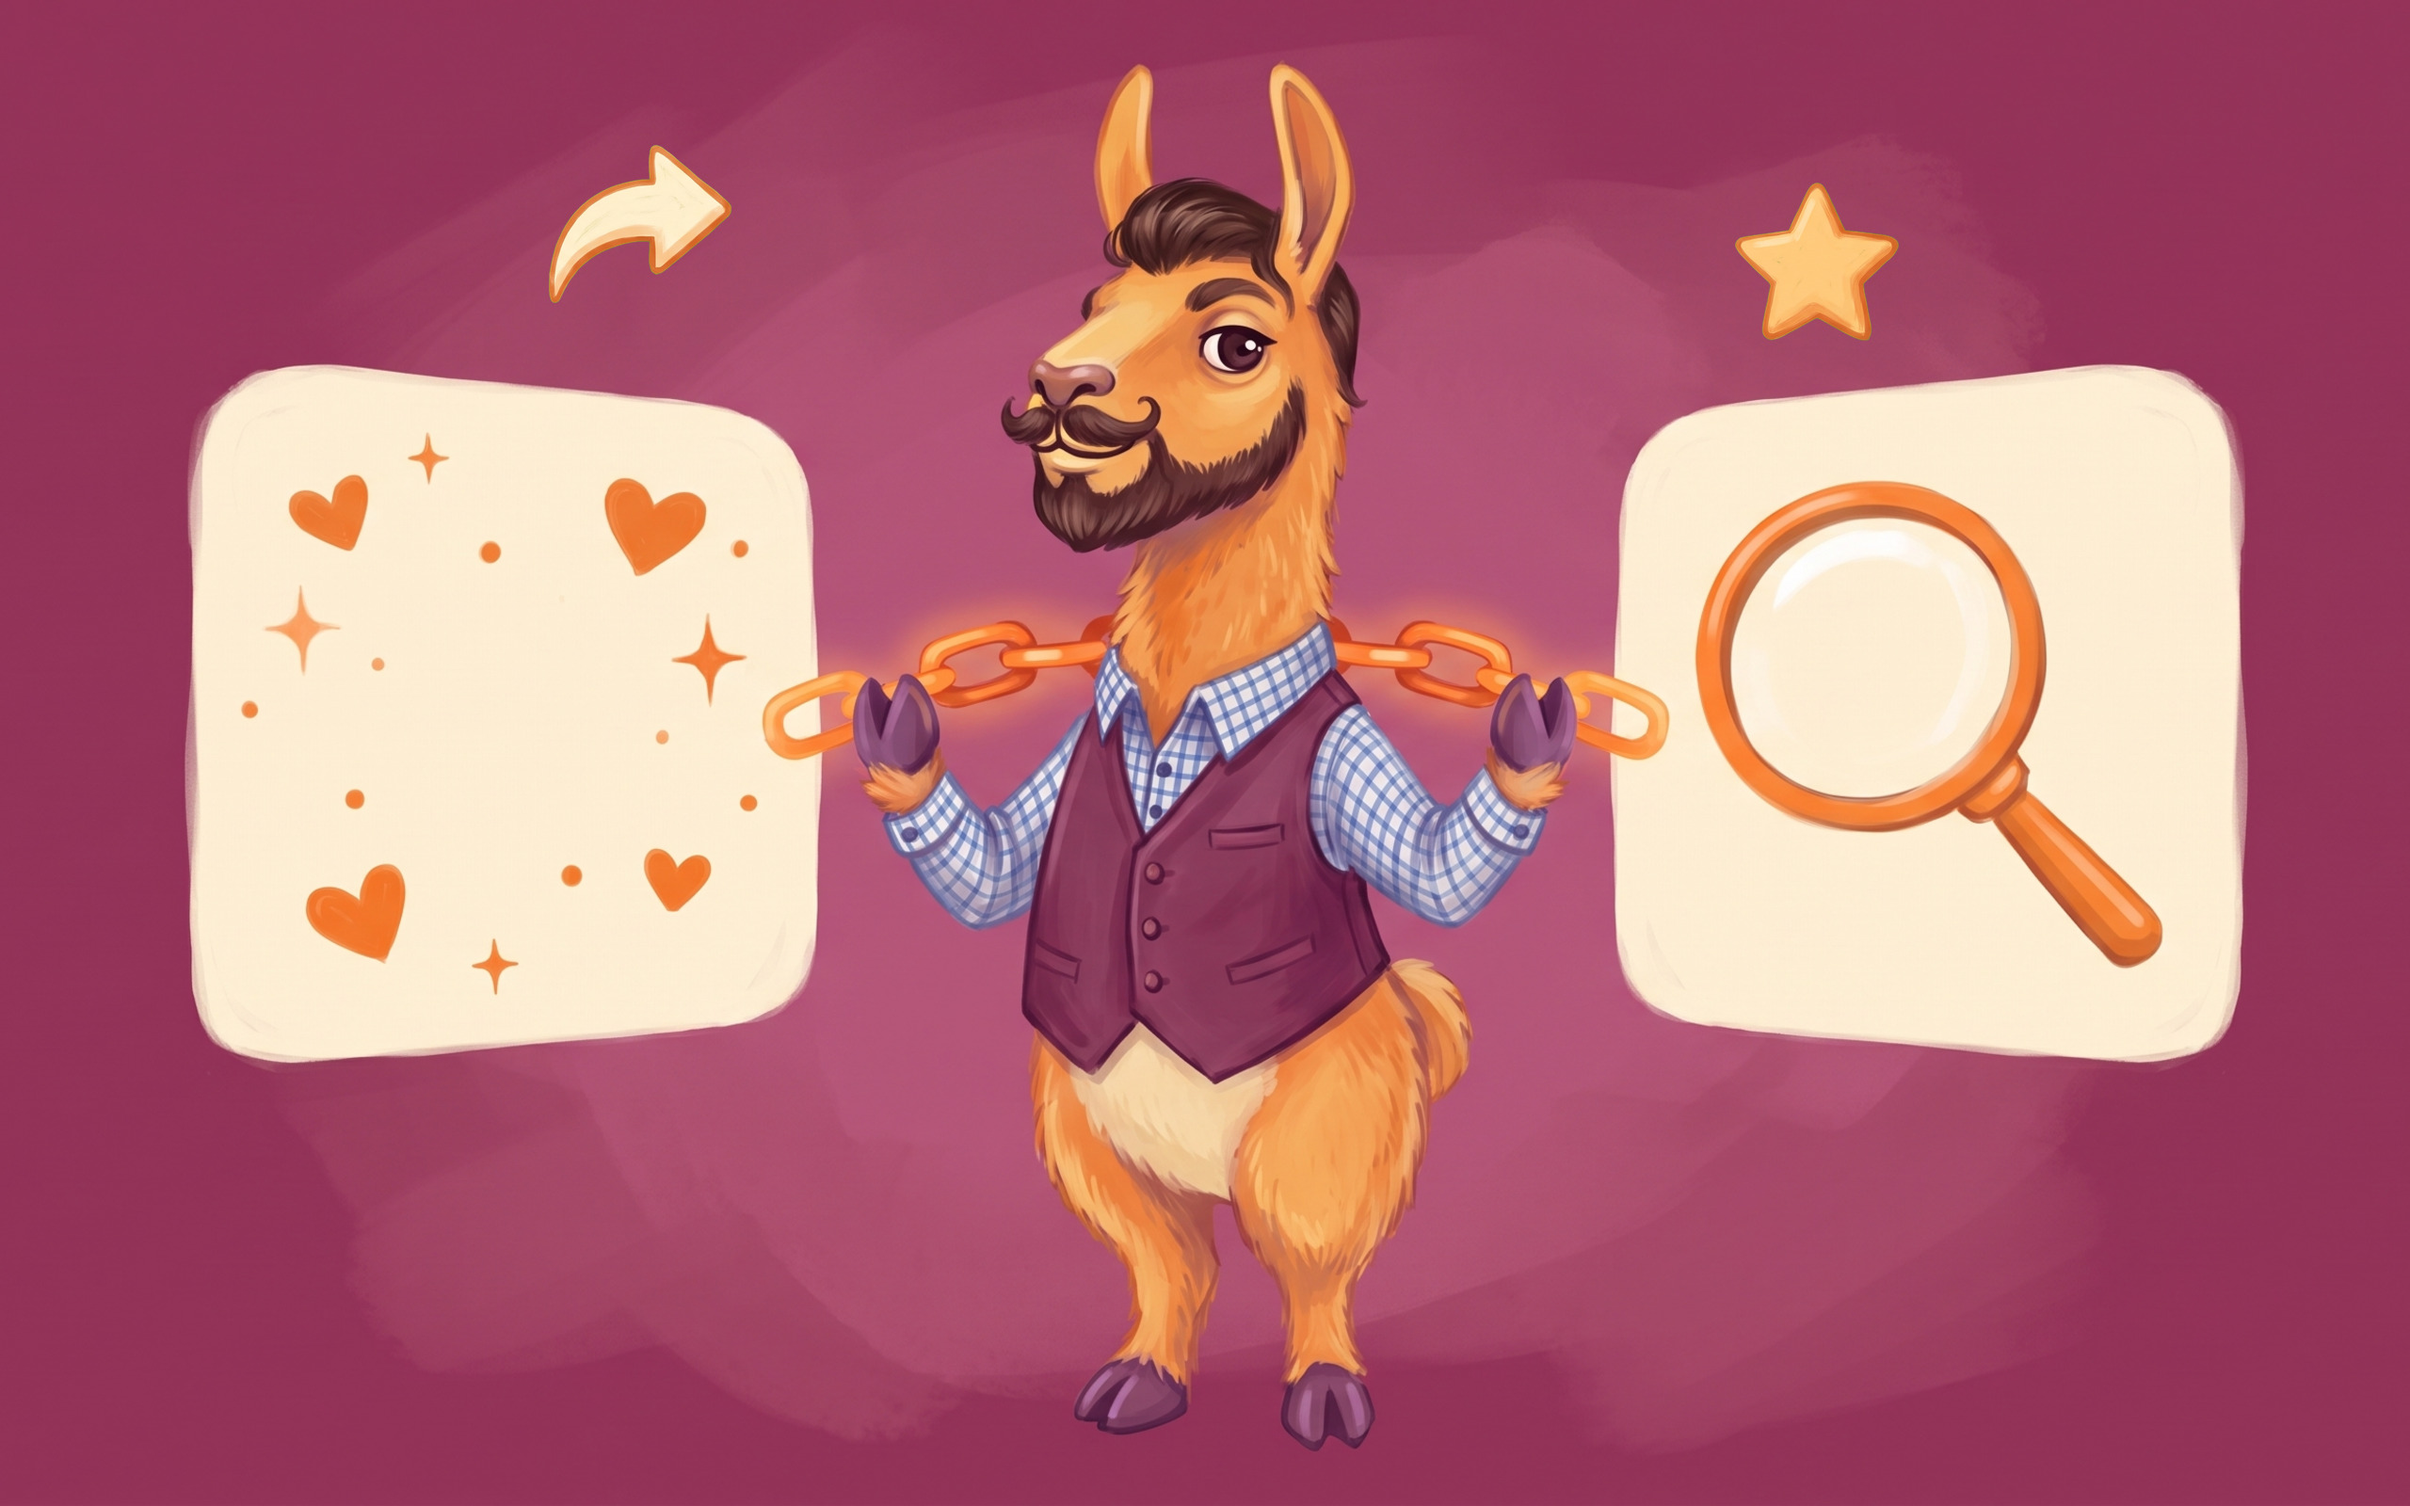
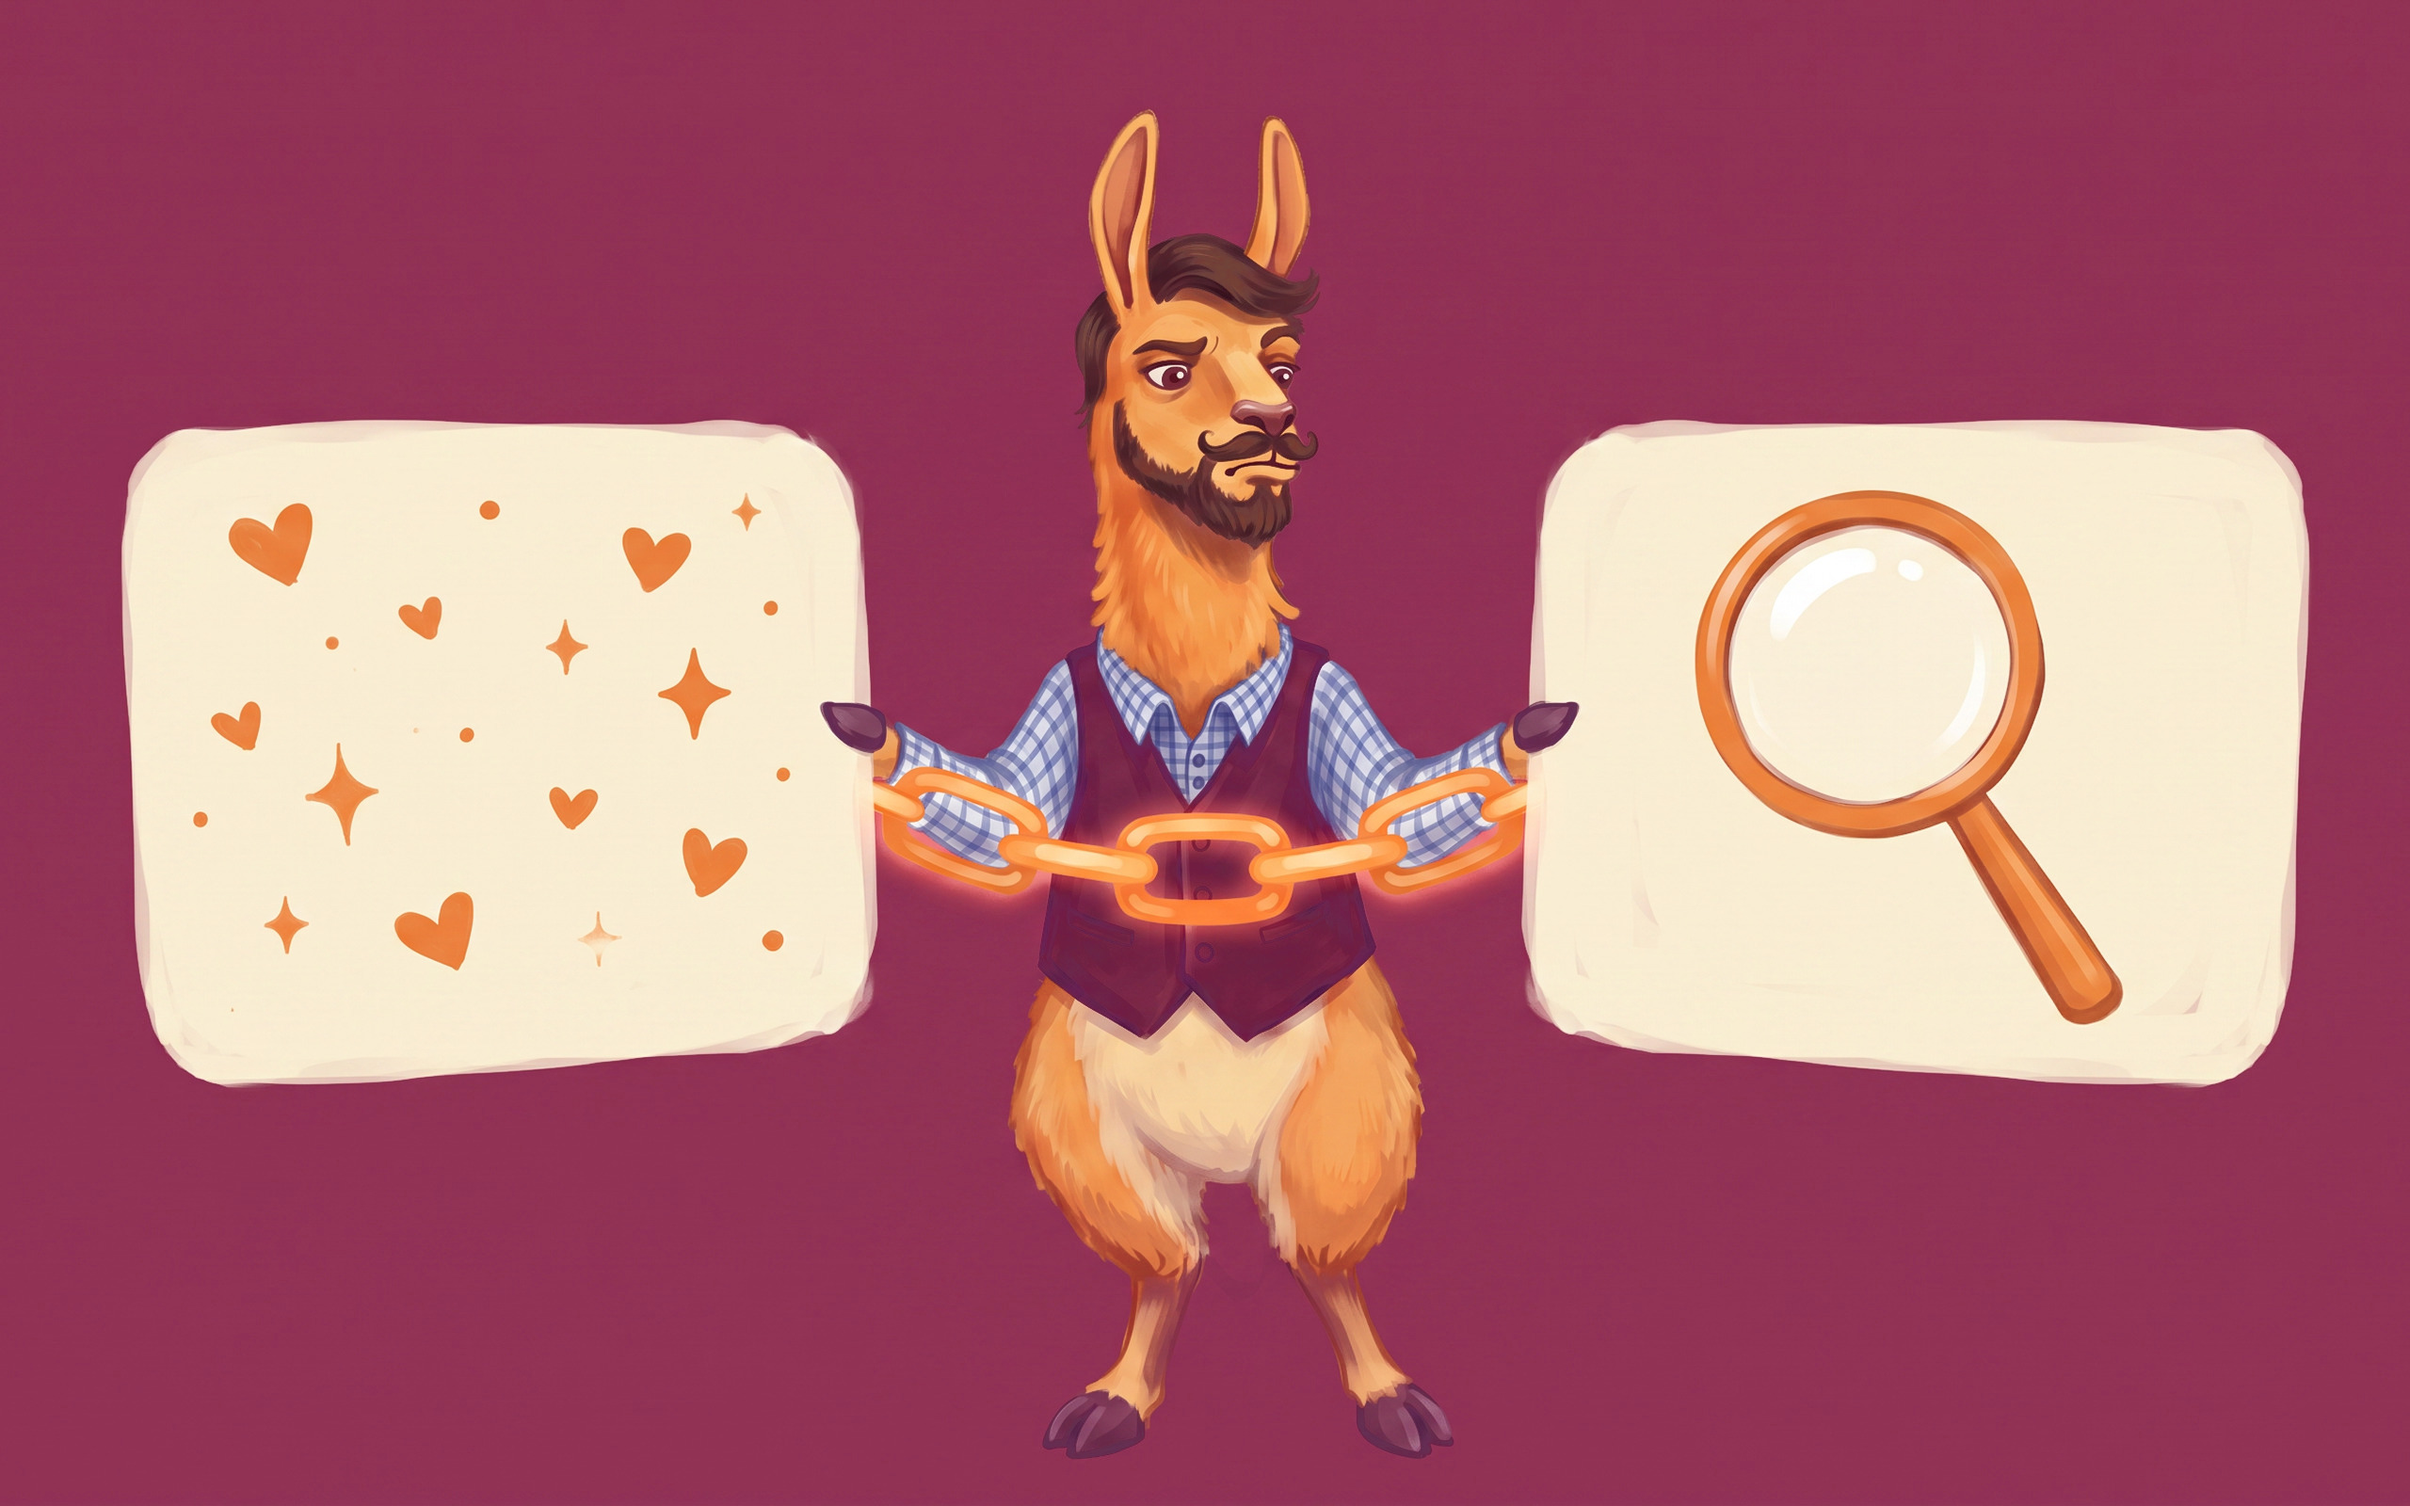
fix(blog): redraw the two defective bespoke covers
t-235 was drawn with six limbs — a quadruped standing on all fours plus a
shirt-sleeved arm reaching for the switch. t-227's llama was off-model against
its siblings: a short bulbous muzzle and a big lash-heavy eye where t-233 and
t-237 have a slender muzzle and a browed brown eye.

Both trace to the same root. All four bespoke seo pieces shared an identical
preamble and reference set, so the SCENE block was the only variable, and it
was carrying weight it could not hold: the face was specified in words against
a generic llama crop plus a photoreal author photo, and nothing anywhere
constrained stance or limb count. The two pieces that came out right did so by
luck of their phrasing ("holds up", "both front hooves pressed").

Fixed by applying the library's own lesson — attributes arrive as pixels, not
words. t-233 is now the character reference, carrying the face, the beard, the
waistcoat and the painted style directly; the human photo is dropped because
its interpretation varies per generation. Every prompt now also carries an
explicit anatomy clause fixing four limbs and an upright stance. Both pieces
came back correct on the first attempt, 4 credits, no retries.

t-233's own ground is #A54B6E, off brand plum, so both redraws inherited the
drift; corrected in post with a distance-feathered masked shift to #913155
(ground moved ~27 levels, subject mean change 0.1). Motifs are unchanged —
only the drawing was wrong.
[…]

diff --git a/lib/payload/relink-cover-art.ts b/lib/payload/relink-cover-art.ts
@@ -37,6 +37,26 @@ const ALTS_EN_PATH = 'content/media/alts.en.json'
 const STAGING = '.cover-art-staging'
 const APPLY = process.argv.includes('--apply')
 
+// `--only t-227,t-235` restricts the run to the named pieces. Without it every
+// in-use piece is re-uploaded, which is right for the first publish and wrong
+// for a revision: redrawing one piece would otherwise mint a fresh media row
+// for all sixteen and repoint every post at art that did not change.
+const onlyArg = process.argv.find((a) => a.startsWith('--only'))
+const ONLY = onlyArg
+  ? new Set(
+      (onlyArg.includes('=')
+        ? onlyArg.slice(onlyArg.indexOf('=') + 1)
+        : (process.argv[process.argv.indexOf(onlyArg) + 1] ?? '')
+      )
+        .split(',')
+        .map((k) => k.trim())
+        .filter(Boolean)
+    )
+  : null
+if (ONLY?.size === 0) {
+  throw new Error('--only needs a comma-separated list of library piece keys')
+}
+
 if (!process.argv.includes('--prod')) {
   throw new Error(
     'payload:relink:cover-art requires --prod: the library serves posts that only ' +
@@ -144,9 +164,28 @@ for (const [, a] of assignments) {
 // there for a future post — but uploading it would create a media row that
 // nothing references. Skip it; it publishes when something first uses it.
 const toUpload = Object.entries(map.library).filter(
-  ([key]) => (uses.get(key) ?? 0) > 0
+  ([key]) => (uses.get(key) ?? 0) > 0 && (ONLY?.has(key) ?? true)
 )
 const idle = Object.keys(map.library).filter((key) => !uses.get(key))
+
+if (ONLY) {
+  const unknown = [...ONLY].filter((key) => !map.library[key])
+  if (unknown.length > 0) {
+    throw new Error(
+      `--only names pieces not in the library: ${unknown.join(', ')}`
+    )
+  }
+  const noPosts = [...ONLY].filter((key) => !uses.get(key))
+  if (noPosts.length > 0) {
+    throw new Error(
+      `--only names pieces no post uses: ${noPosts.join(', ')} — uploading them ` +
+        'would create media rows nothing references'
+    )
+  }
+  console.log(
+    `--only ${[...ONLY].join(', ')} — every other piece is left alone.\n`
+  )
+}
 
 console.log(
   `${published.docs.length} published posts scanned, all 22 assignments resolved.\n`
@@ -225,6 +264,10 @@ for (const [key, piece] of toUpload) {
 console.log('')
 let moved = 0
 for (const [, a] of assignments) {
+  // A restricted run leaves every other post on the cover it already carries.
+  if (ONLY && !ONLY.has(a.piece)) {
+    continue
+  }
   const post = bySlug.get(a.slug)
   const want = newIds.get(a.piece)
   // Both were proven above — every assigned slug resolved, every assigned piece

diff --git a/content/media/cover-library-brief.md b/content/media/cover-library-brief.md
@@ -224,6 +224,52 @@ because loosening it is exactly what would let an icon land on a pale part of th
 - **Composition scale cannot be prompted.** Explicit "leave 15% empty above the ear tips"
   instructions were ignored twice. It is free to fix in post and pointless to pay for.
 
+### Revising a piece — the character and anatomy rules (added 2026-07-31)
+
+`t-227` and `t-235` shipped defective and were redrawn. Both failures trace to the same
+root: the SCENE block was the only thing that varied between the four bespoke `seo` pieces,
+and it was carrying weight it could not hold.
+
+- **A recurring character arrives as pixels too.** The face was specified only in words
+  ("neat dark brown beard … long muzzle") against a *generic* llama crop plus a photoreal
+  photo of the author. Two of four pieces drifted off-model — `t-227` came back with a
+  short bulbous muzzle and a big lash-heavy eye instead of the slender muzzle and browed
+  brown eye of its siblings. **Fix: pass an already-correct piece as the character
+  reference** (`t-233` was used) and drop the human photo, whose interpretation varies per
+  generation. Add "copy ONLY the character — not its props or composition", or the
+  reference's magnifying glass follows the character into the new scene.
+- **Limb count must be stated explicitly.** Nothing in the original prompts constrained
+  stance. `t-235`'s "reaches up with one hoof" left the model free to keep a quadruped on
+  all fours *and* grow an arm for the switch — six limbs. The pieces that came out right
+  did so by luck of their phrasing ("holds up", "both front hooves pressed"). Every prompt
+  now carries:
+
+  > ANATOMY, STRICTLY: exactly four limbs and no more — two hind legs and two front legs.
+  > It stands UPRIGHT ON ITS TWO HIND LEGS like a person; its two front legs are its arms.
+  > Do NOT draw a fifth or sixth limb. Do NOT draw it standing on four legs while also
+  > reaching up with an arm.
+
+- **A reference carries its ground drift too.** `t-233`'s own ground is `#A54B6E`, well off
+  brand plum, so both redraws inherited it. The masked shift in post (below) corrects it;
+  measure the corners rather than trusting the plum swatch to win.
+
+Ground correction as used on both redraws — colour only, never geometry. Sample the ground
+from a border ring, then shift toward `#913155` with a smoothstep weight on distance from
+that sampled colour, so the subject is untouched (measured: ground moved ~27 levels,
+subject mean change 0.1):
+
+```python
+dist = np.sqrt(((a - src) ** 2).sum(axis=2))
+t = np.clip((dist - 38.0) / (78.0 - 38.0), 0.0, 1.0)
+w = (1.0 - (t * t * (3.0 - 2.0 * t)))[..., None]
+out = np.clip(a + w * (TARGET - src), 0, 255)
+```
+
+**Publishing a revision:** `payload:relink:cover-art --prod --only t-227,t-235 --apply`.
+Without `--only` the script re-uploads every in-use piece, which is right for the first
+publish and wrong for a revision — it would mint sixteen new media rows and repoint every
+post at art that did not change.
+
 ## Spend log
 
 | Batch | Direction | Pieces | Credits | Outcome |
@@ -240,10 +286,13 @@ because loosening it is exactly what would let an icon land on a pale part of th
 | 2026-07-31 hybrid | topic-specific concepts | 6 more @2k | 12 | **KEEP** — hub ranks 1–8 |
 | 2026-07-31 retry | topic-specific concepts | `t-237` @2k | 2 | **KEEP** — v1 built on a blank card |
 | | | | **76 spent** | balance 101.01 → **25.01** |
+| 2026-07-31 redraw | `t-233` as character ref + anatomy clause | `t-227`, `t-235` @2k | 4 | **KEEP** — both first time, no retry |
+| | | | **80 spent** | balance 49.01 → **45.01** |
 
-Of the 76, **20 bought nothing**: 14 on the wrong style anchor and 6 on topic pieces that
-fell below the hybrid line. Both were the cost of finding out, and both are recorded above
-rather than quietly rounded off.
+Of the first 76, **20 bought nothing**: 14 on the wrong style anchor and 6 on topic pieces
+that fell below the hybrid line. Both were the cost of finding out, and both are recorded
+above rather than quietly rounded off. The redraw batch wasted nothing: swapping the
+character reference to an already-correct piece fixed both defects on the first attempt.
 
 ### Final shape — 20 pieces, 16 in use
 
